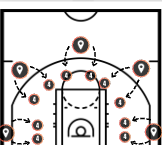
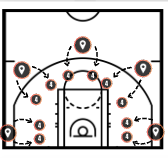
Update workout component logic and visual assets
Replit-Commit-Author: Agent

diff --git a/client/src/components/quick-complete-workout.tsx b/client/src/components/quick-complete-workout.tsx
@@ -1,4 +1,5 @@
-import { ArrowLeft, Check, Clock3, Info, Target } from "lucide-react";
+import type { ReactNode } from "react";
+import { ArrowLeft, BarChart3, Check, Clock3, Info } from "lucide-react";
 import { dayTwoWorkoutArt } from "@/lib/day-two-workout-art";
 
 export type QuickCompleteDrill = {
@@ -16,12 +17,16 @@ type QuickCompleteWorkoutProps = {
   drills: QuickCompleteDrill[];
   elapsed: string;
   saving: boolean;
+  mode: "complete" | "track";
   isDayTwo: boolean;
   onCancel: () => void;
   onToggle: (drillId: string) => void;
   onShowInfo: (drillId: string) => void;
+  onQuickComplete: () => void;
   onTrackStats: () => void;
   onSave: () => void;
+  canSave: boolean;
+  renderTrackControls?: (drillId: string) => ReactNode;
 };
 
 export function QuickCompleteWorkout({
@@ -29,15 +34,20 @@ export function QuickCompleteWorkout({
   drills,
   elapsed,
   saving,
+  mode,
   isDayTwo,
   onCancel,
   onToggle,
   onShowInfo,
+  onQuickComplete,
   onTrackStats,
   onSave,
+  canSave,
+  renderTrackControls,
 }: QuickCompleteWorkoutProps) {
   const completedCount = drills.filter((drill) => drill.complete).length;
   const progress = drills.length > 0 ? (completedCount / drills.length) * 100 : 0;
+  const tracking = mode === "track";
 
   return (
     <main
@@ -73,12 +83,12 @@ export function QuickCompleteWorkout({
           </div>
 
           <div className="mt-5 flex w-full items-center rounded-xl bg-zinc-100 p-1" aria-label="Workout logging mode">
-            <button type="button" aria-pressed="true" className="flex-1 rounded-lg bg-[#111] px-3 py-2.5 text-xs font-extrabold uppercase tracking-[.12em] text-white shadow-sm">
+            <button type="button" onClick={onQuickComplete} aria-pressed={!tracking} className={`flex-1 rounded-lg px-3 py-2.5 text-xs font-extrabold uppercase tracking-[.12em] shadow-sm transition ${!tracking ? "bg-[#111] text-white" : "text-zinc-500 hover:text-black"}`}>
               <Check className="mr-1.5 inline h-4 w-4 text-orange-400" />
               Quick Complete
             </button>
-            <button type="button" onClick={onTrackStats} aria-pressed="false" className="flex-1 rounded-lg px-3 py-2.5 text-xs font-extrabold uppercase tracking-[.12em] text-zinc-500 transition hover:text-black">
-              <Target className="mr-1.5 inline h-4 w-4" />
+            <button type="button" onClick={onTrackStats} aria-pressed={tracking} className={`flex-1 rounded-lg px-3 py-2.5 text-xs font-extrabold uppercase tracking-[.12em] shadow-sm transition ${tracking ? "bg-[#111] text-white" : "text-zinc-500 hover:text-black"}`}>
+              <BarChart3 className="mr-1.5 inline h-4 w-4" />
               Track Stats
             </button>
           </div>
@@ -88,9 +98,9 @@ export function QuickCompleteWorkout({
           <div className="flex items-end justify-between gap-3">
             <div>
               <p className="font-mono text-[10px] font-bold uppercase tracking-[.18em] text-zinc-500">Your progress</p>
-              <p className="mt-1 font-heading text-2xl font-black uppercase">{completedCount}<span className="mx-1 text-orange-500">/</span>{drills.length} complete</p>
+              <p className="mt-1 font-heading text-2xl font-black uppercase">{completedCount}<span className="mx-1 text-orange-500">/</span>{drills.length} {tracking ? "tracked" : "complete"}</p>
             </div>
-            <p className="pb-1 text-right text-xs text-zinc-500">Tap each drill as you finish.<br className="sm:hidden" /> No stats needed.</p>
+            <p className="pb-1 text-right text-xs text-zinc-500">{tracking ? "Enter results for each round." : <>Tap each drill as you finish.<br className="sm:hidden" /> No stats needed.</>}</p>
           </div>
           <div className="mt-3 h-2 overflow-hidden rounded-full bg-zinc-100">
             <div className="h-full rounded-full bg-orange-500 transition-[width] duration-300" style={{ width: `${progress}%` }} />
@@ -98,22 +108,11 @@ export function QuickCompleteWorkout({
         </section>
 
         <section className="mt-4 space-y-3" aria-label="Workout drills">
-          {drills.map((drill, index) => (
-            <article
-              key={drill.id}
-              className={`flex items-center gap-2 rounded-2xl border bg-white/95 p-2 shadow-[0_8px_24px_rgba(0,0,0,.05)] transition sm:gap-3 sm:p-3 ${
-                drill.complete ? "border-orange-400/70 ring-1 ring-orange-400/30" : "border-black/10 hover:border-black/25"
-              }`}
-            >
-              <button
-                type="button"
-                onClick={() => onToggle(drill.id)}
-                aria-pressed={drill.complete}
-                data-testid={`quick-complete-drill-${drill.id}`}
-                className="group flex min-w-0 flex-1 items-center gap-3 rounded-xl p-1 text-left focus-visible:outline-none focus-visible:ring-2 focus-visible:ring-orange-500 sm:gap-5 sm:p-2"
-              >
+          {drills.map((drill, index) => {
+            const content = (
+              <>
                 {drill.image ? (
-                  <span className="flex h-[88px] w-[104px] shrink-0 items-center justify-center overflow-hidden sm:h-[110px] sm:w-[132px]">
+                  <span className="flex h-[88px] w-[104px] shrink-0 items-center justify-center sm:h-[110px] sm:w-[132px]">
                     <img src={drill.image} alt="" className="max-h-full max-w-full object-contain" />
                   </span>
                 ) : (
@@ -130,11 +129,28 @@ export function QuickCompleteWorkout({
                   <span className="mt-1.5 block font-heading text-sm font-black uppercase text-zinc-900">{drill.summary}</span>
                 </span>
                 <span className={`flex h-9 w-9 shrink-0 items-center justify-center rounded-full border-2 transition ${
-                  drill.complete ? "border-orange-500 bg-orange-500 text-black" : "border-zinc-300 text-transparent group-hover:border-orange-400"
+                  drill.complete ? "border-orange-500 bg-orange-500 text-black" : "border-zinc-300 text-transparent"
                 }`}>
                   <Check className="h-5 w-5" strokeWidth={3} />
                 </span>
-              </button>
+              </>
+            );
+            return (
+            <article key={drill.id} className={`flex items-center gap-2 rounded-2xl border bg-white/95 p-2 shadow-[0_8px_24px_rgba(0,0,0,.05)] transition sm:gap-3 sm:p-3 ${
+              drill.complete ? "border-orange-400/70 ring-1 ring-orange-400/30" : "border-black/10 hover:border-black/25"
+            }`}>
+              {tracking ? (
+                <div className="min-w-0 flex-1">
+                  <div className="group flex min-w-0 items-center gap-3 rounded-xl p-1 text-left sm:gap-5 sm:p-2" data-testid={`quick-complete-drill-${drill.id}`}>
+                    {content}
+                  </div>
+                  {renderTrackControls?.(drill.id)}
+                </div>
+              ) : (
+                <button type="button" onClick={() => onToggle(drill.id)} aria-pressed={drill.complete} data-testid={`quick-complete-drill-${drill.id}`} className="group flex min-w-0 flex-1 items-center gap-3 rounded-xl p-1 text-left focus-visible:outline-none focus-visible:ring-2 focus-visible:ring-orange-500 sm:gap-5 sm:p-2">
+                  {content}
+                </button>
+              )}
               <button
                 type="button"
                 onClick={() => onShowInfo(drill.id)}
@@ -146,24 +162,24 @@ export function QuickCompleteWorkout({
                 <Info className="h-5 w-5" />
               </button>
             </article>
-          ))}
+          );})}
         </section>
       </div>
 
       <div className="fixed inset-x-0 bottom-0 z-20 border-t border-black/10 bg-white/95 px-4 py-3 backdrop-blur-md sm:px-7">
         <div className="mx-auto flex max-w-4xl items-center justify-between gap-3">
           <div className="min-w-0">
-            <p className="font-heading text-xl font-black uppercase">{completedCount} of {drills.length} selected</p>
-            <p className="truncate text-[11px] text-zinc-500">{completedCount ? "Only completed drills are saved." : "Check off at least one drill to save."}</p>
+            <p className="font-heading text-xl font-black uppercase">{completedCount} of {drills.length} {tracking ? "tracked" : "selected"}</p>
+            <p className="truncate text-[11px] text-zinc-500">{tracking ? "Your round stats will be saved to Training History." : completedCount ? "Only completed drills are saved." : "Check off at least one drill to save."}</p>
           </div>
           <button
             type="button"
             onClick={onSave}
-            disabled={saving || completedCount === 0}
+            disabled={saving || !canSave}
             className="inline-flex min-h-12 shrink-0 items-center justify-center gap-2 rounded-lg bg-orange-500 px-4 font-mono text-[10px] font-extrabold uppercase tracking-[.12em] text-black shadow-[0_3px_0_#a93c0d] transition hover:bg-orange-400 disabled:cursor-not-allowed disabled:opacity-45 sm:px-6 sm:text-xs"
             data-testid="button-finish-workout"
           >
-            {saving ? "Saving…" : "Save completed"}
+            {saving ? "Saving…" : tracking ? "Save stats" : "Save completed"}
           </button>
         </div>
       </div>

diff --git a/client/src/pages/training-log.tsx b/client/src/pages/training-log.tsx
@@ -101,7 +101,7 @@ import { Label } from "@/components/ui/label";
 import { Progress } from "@/components/ui/progress";
 import { countSavedWorkouts, getSavedWorkoutLimit, isAtSavedWorkoutLimit } from "@shared/workout-limits";
 import { DAY_TWO_RANGE_WORKOUT_ID, dayTwoWorkoutArt, dayTwoWorkoutTotals } from "@/lib/day-two-workout-art";
-import { DAY_THREE_VOLUME_WORKOUT_ID, volumeWorkoutArt } from "@/lib/day-three-workout-art";
+import { DAY_THREE_VOLUME_WORKOUT_ID, volumeWorkoutArt, volumeWorkoutDrills } from "@/lib/day-three-workout-art";
 
 type DrillMetricWithTemplate = DrillMetric & { template: MetricTemplate };
 
@@ -167,6 +167,7 @@ export default function TrainingLogPage() {
   const [activeWorkoutTemplateId, setActiveWorkoutTemplateId] = useState<string | null>(null);
   const [activeWorkoutName, setActiveWorkoutName] = useState("Training session");
   const [quickCompletedDrillIds, setQuickCompletedDrillIds] = useState<Set<string>>(new Set());
+  const [trackedEntryIndexes, setTrackedEntryIndexes] = useState<Set<number>>(new Set());
   const [isCreateDrillOpen, setIsCreateDrillOpen] = useState(() => {
     return new URLSearchParams(searchParams).get('create') === '1';
   });
@@ -1115,36 +1116,23 @@ export default function TrainingLogPage() {
       if (!response.ok) throw new Error("Failed to fetch workout");
       const data: WorkoutWithDrills = await response.json();
 
-      const drillIds = data.drills.map(wd => wd.drillId);
-      track("workout_started", { workoutId, drillCount: drillIds.length });
-      const metricsPromises = drillIds.map(id => fetchDrillMetrics(id));
-      const metricsResults = await Promise.all(metricsPromises);
-
-      const entries: WorkoutDrillEntry[] = [];
-      data.drills.forEach((wd, index) => {
-        const drillMetrics = metricsResults[index] || [];
-        const metricValues: Record<string, number> = {};
-        drillMetrics.forEach(dm => {
-          metricValues[dm.metricTemplateId] = 0;
-        });
-        
-        entries.push({
-          drillId: wd.drillId,
-          drill: wd.drill,
-          duration: wd.defaultDuration || Math.round((wd.drill.duration || 300) / 60),
+      track("workout_started", { workoutId, drillCount: data.drills.length });
+      const entries = (await Promise.all(data.drills.map(async (wd) => {
+        const rounds = await buildDrillEntries(wd.drillId, wd.drill);
+        return rounds.map((entry) => ({
+          ...entry,
+          duration: wd.defaultDuration || entry.duration,
           plannedSets: wd.defaultSets,
           plannedReps: wd.defaultReps,
           coachingNotes: wd.coachingNotes,
-          notes: "",
-          metrics: metricValues,
-          drillMetrics,
-        });
-      });
+        }));
+      }))).flat();
 
       setWorkoutMode(workoutId === DAY_TWO_RANGE_WORKOUT_ID ? "complete" : "track");
       setActiveWorkoutTemplateId(workoutId);
       setActiveWorkoutName(data.workout.name);
       setQuickCompletedDrillIds(new Set());
+      setTrackedEntryIndexes(new Set());
       setWorkoutEntries(entries);
       setWorkoutInProgress(true);
       setActiveView("workout");
@@ -1257,6 +1245,7 @@ export default function TrainingLogPage() {
 
   // Update metric value for a workout entry
   const updateMetricValue = (entryIndex: number, metricTemplateId: string, value: number) => {
+    setTrackedEntryIndexes((current) => new Set(current).add(entryIndex));
     setWorkoutEntries(prev => {
       const next = [...prev];
       const entry = next[entryIndex];
@@ -1714,6 +1703,11 @@ export default function TrainingLogPage() {
   const completedDrillCount = quickCompletedDrillIds.size;
   const isDayThreeWorkout = activeWorkoutTemplateId === DAY_THREE_VOLUME_WORKOUT_ID;
   const isDayTwoWorkout = activeWorkoutTemplateId === DAY_TWO_RANGE_WORKOUT_ID;
+  const trackedDrillIds = new Set(
+    quickWorkoutEntries
+      .filter((entry) => workoutEntries.every((candidate, index) => candidate.drillId !== entry.drillId || trackedEntryIndexes.has(index)))
+      .map((entry) => entry.drillId)
+  );
   const quickCompleteDrills = quickWorkoutEntries.map((entry, index) => ({
     id: entry.drillId,
     title: entry.drill.title,
@@ -1721,10 +1715,47 @@ export default function TrainingLogPage() {
     description: entry.drill.description || "",
     summary: isDayTwoWorkout
       ? dayTwoWorkoutTotals[index] ?? `${entry.plannedReps ?? ""} reps`
-      : `${formatCategory(entry.drill.category || "")} · ${entry.drill.difficulty}`,
-    complete: quickCompletedDrillIds.has(entry.drillId),
+      : isDayThreeWorkout
+        ? volumeWorkoutDrills[index]?.total ?? `${entry.plannedReps ?? ""} shots`
+        : `${formatCategory(entry.drill.category || "")} · ${entry.drill.difficulty}`,
+    complete: workoutMode === "track" ? trackedDrillIds.has(entry.drillId) : quickCompletedDrillIds.has(entry.drillId),
     image: isDayTwoWorkout ? dayTwoWorkoutArt[index] : isDayThreeWorkout ? volumeWorkoutArt[index] : undefined,
   }));
+  const renderTrackControls = (drillId: string) => {
+    const rows = workoutEntries
+      .map((entry, index) => ({ entry, index }))
+      .filter(({ entry }) => entry.drillId === drillId);
+    if (!rows.length) return null;
+    const metricColumns = rows[0].entry.drillMetrics
+      .filter((metric) => (metric.template.type as string) !== "calculated" && ((metric.template.type as string) !== "timer" || metric.isRequired))
+      .sort((a, b) => Number(/attempt/i.test(`${a.template.name} ${a.template.label}`)) - Number(/attempt/i.test(`${b.template.name} ${b.template.label}`)));
+    return (
+      <div className="mt-3 space-y-2">
+        {rows.map(({ entry, index }, roundIndex) => (
+          <div key={index} className="grid items-end gap-1.5 rounded-xl border border-black/10 bg-[#f7f6f3] p-2 sm:gap-2" style={{ gridTemplateColumns: `32px ${entry.drill.trackShots ? "minmax(92px,1.2fr)" : ""} repeat(${metricColumns.length},minmax(56px,.8fr))` }} data-testid={`workout-row-${index}`}>
+            <span className="flex h-10 items-center justify-center rounded-lg bg-white font-mono text-xs font-bold text-zinc-600">R{String(roundIndex + 1).padStart(2, "0")}</span>
+            {entry.drill.trackShots && (
+              <div className="min-w-0">
+                <label htmlFor={`select-location-${index}`} className="mb-1 block truncate text-[9px] font-bold uppercase tracking-wide text-zinc-600">Shot spot</label>
+                <Select value={entry.shotLocation || ""} onValueChange={(value) => updateEntry(index, "shotLocation", value)}>
+                  <SelectTrigger id={`select-location-${index}`} className="h-10 min-w-0 border-black/10 bg-white px-2 text-xs" data-testid={`select-location-${index}`}><SelectValue placeholder="Choose spot" /></SelectTrigger>
+                  <SelectContent position="popper" sideOffset={4} className="max-h-[50vh] overflow-y-auto border-black/10 bg-white text-zinc-900">
+                    {(shotLocationOptions || []).map((location) => <SelectItem key={location.slug} value={location.slug}>{location.label}</SelectItem>)}
+                  </SelectContent>
+                </Select>
+              </div>
+            )}
+            {metricColumns.map((metric) => (
+              <div key={metric.metricTemplateId} className="min-w-0">
+                <label htmlFor={`metric-${index}-${metric.metricTemplateId}`} className="mb-1 block truncate text-[9px] font-bold uppercase tracking-wide text-zinc-600">{metric.template.label.replace(/^Shots?\s*/i, "")}</label>
+                <Input id={`metric-${index}-${metric.metricTemplateId}`} type="number" min="0" inputMode="numeric" aria-label={`${metric.template.label} round ${roundIndex + 1}`} value={entry.metrics[metric.metricTemplateId] ?? ""} onChange={(event) => updateMetricValue(index, metric.metricTemplateId, Number(event.target.value) || 0)} className="h-10 border-black/10 bg-white text-center font-mono text-base font-bold tabular-nums text-zinc-950" data-testid={`input-metric-${index}-${metric.metricTemplateId}`} />
+              </div>
+            ))}
+          </div>
+        ))}
+      </div>
+    );
+  };
 
   // Render drill selection list
   return (
